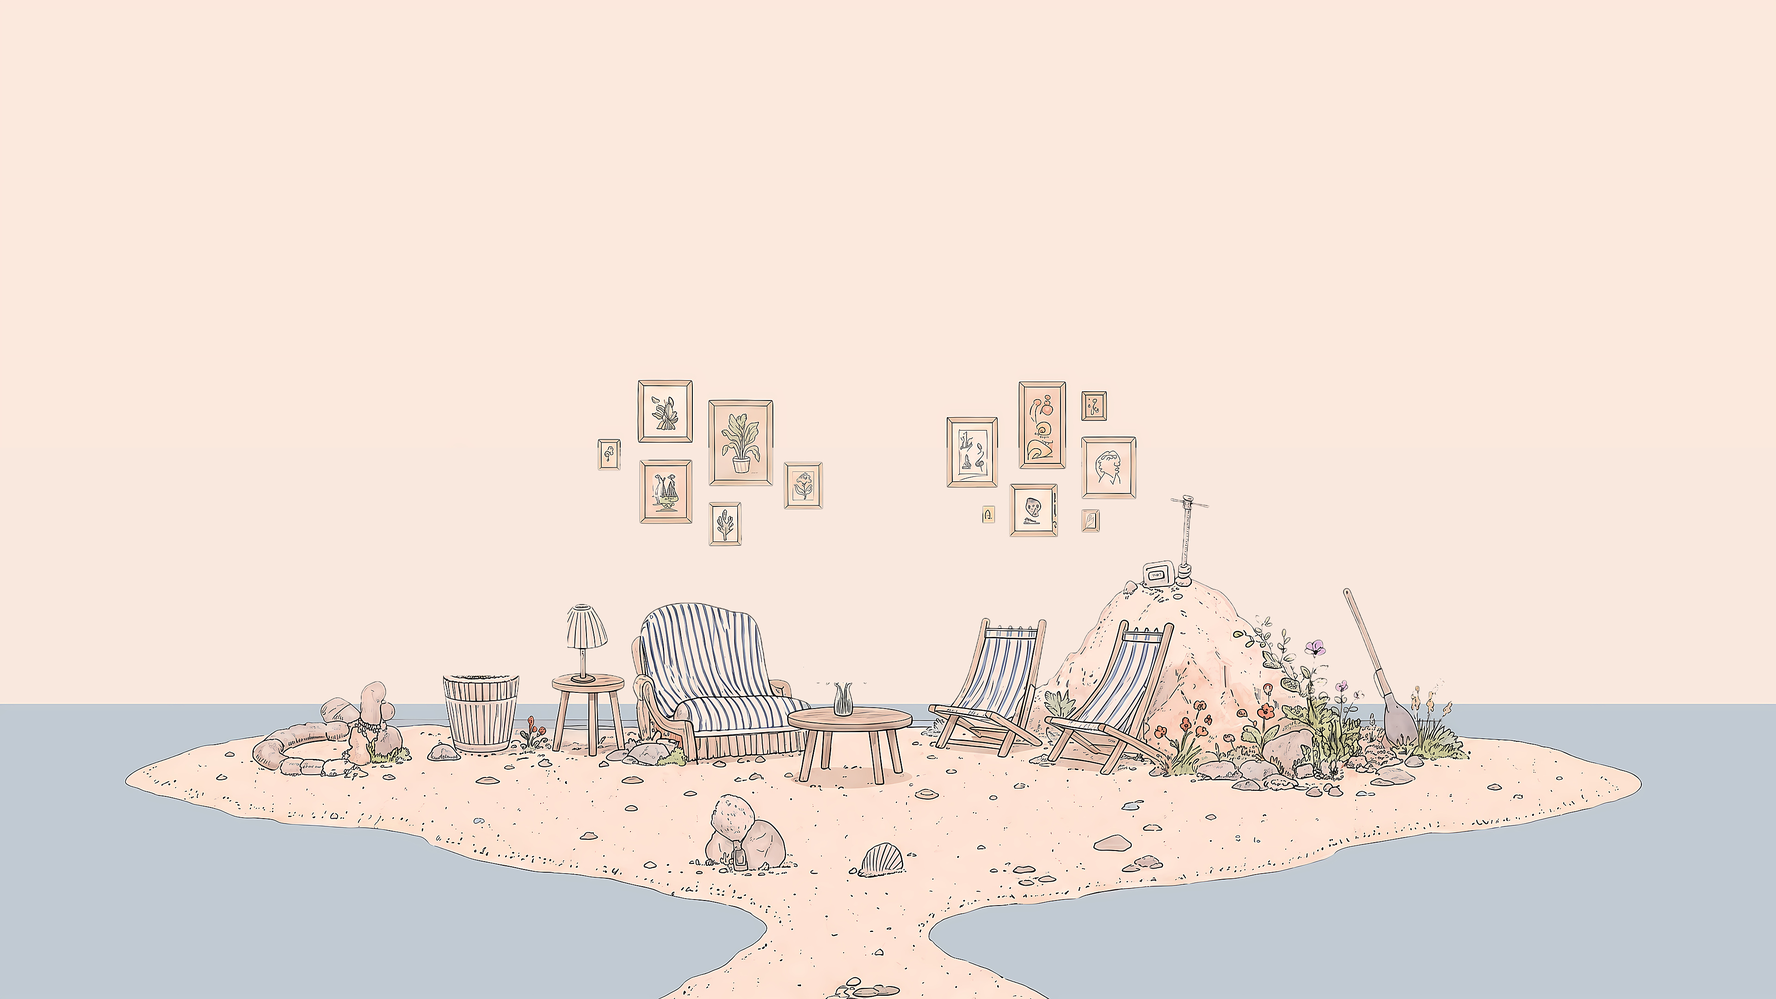
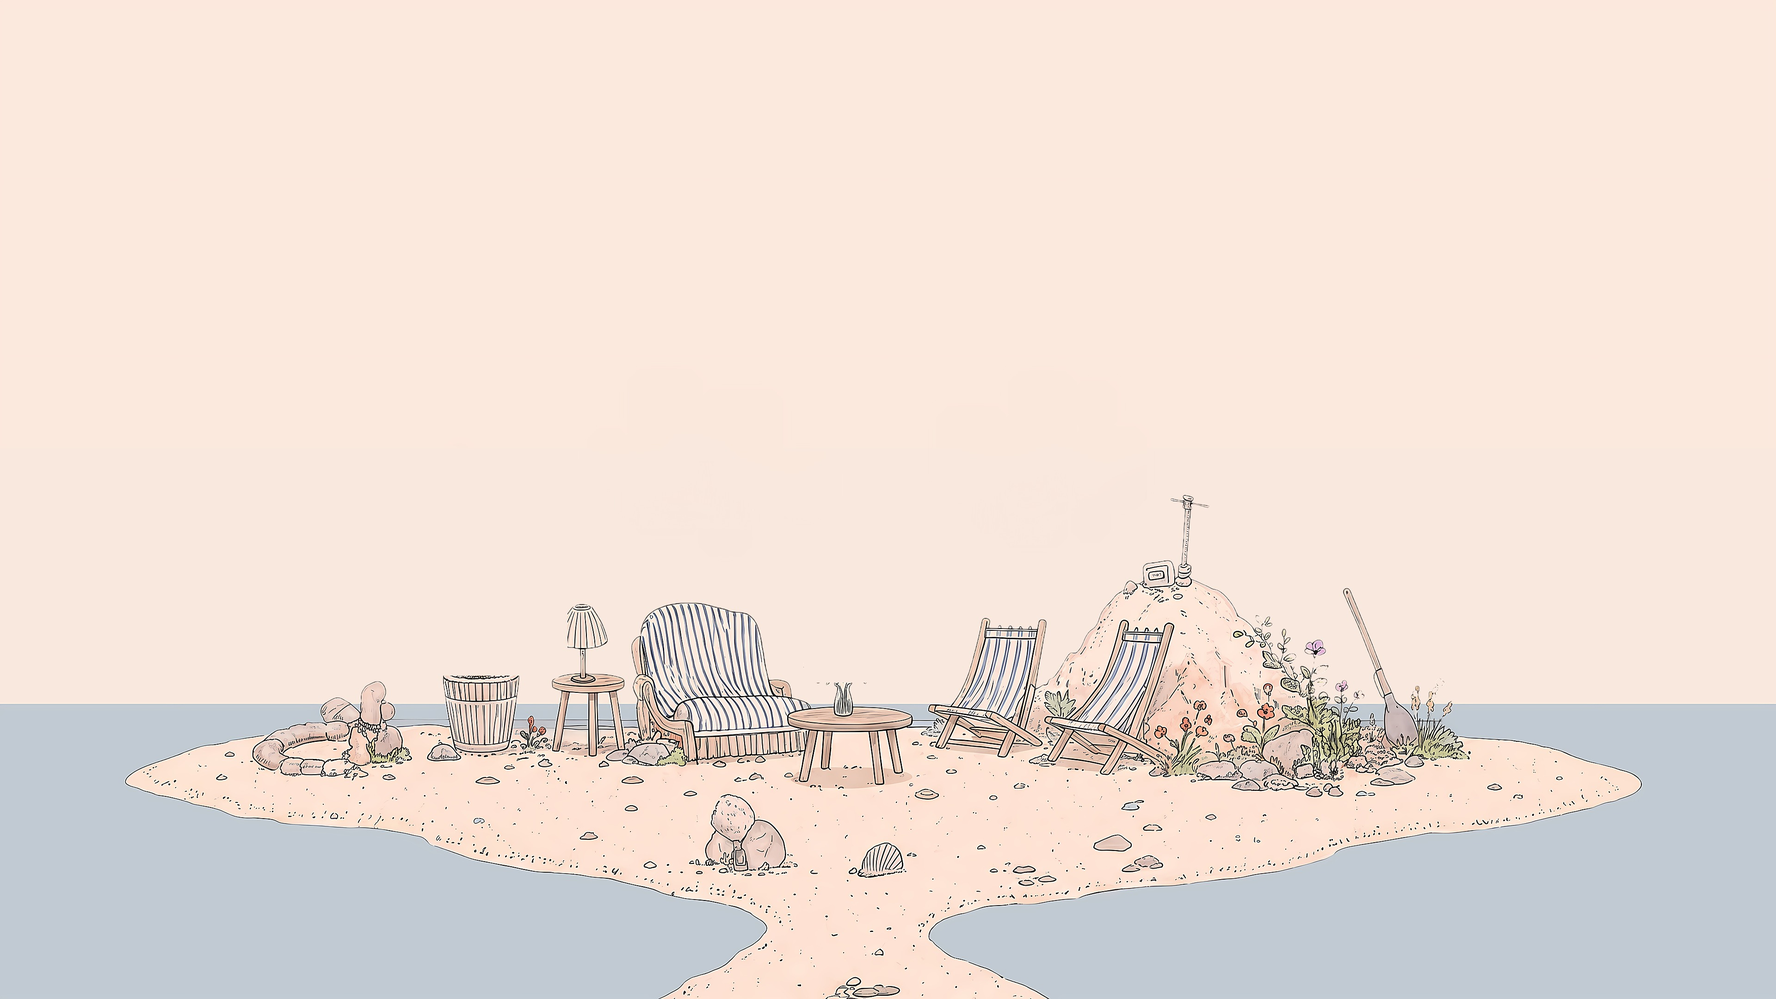
저장소 액자: 배경에서 액자를 모두 지우고 저장한 기록이 생긴 액자만 걸기(처음 저장한 순서대로 자리), 이름표를 반투명 흰 상자로 작게, 문서 반영

Changed region(s): [[0.3125, 0.3722, 0.4688, 0.5583], [0.5312, 0.3722, 0.6562, 0.5583]]

diff --git a/app/storageinside/page.tsx b/app/storageinside/page.tsx
@@ -40,14 +40,16 @@ export default function StorageInsidePage() {
     };
   }, [status]);
 
-  // 액자 자리: 추모 커뮤니티는 고정, 고인은 정해 둔 자리에 차례로 (8명까지)
+  // 저장한 기록이 있는 액자만 걸기. 추모 커뮤니티는 고정 자리, 고인은 처음 저장한 순서대로 다음 빈자리에 (8명까지)
   const placed: Array<{ summary: FrameSummary; spot: FrameSpot }> = [];
   if (frames) {
-    const people = frames.filter((frame) => frame.frame !== COMMUNITY_FRAME);
+    const people = frames
+      .filter((frame) => frame.frame !== COMMUNITY_FRAME && frame.firstSavedAt)
+      .sort((a, b) => (a.firstSavedAt ?? "").localeCompare(b.firstSavedAt ?? ""));
     people.slice(0, CHARACTER_FRAME_SPOTS.length).forEach((summary, index) => {
       placed.push({ summary, spot: CHARACTER_FRAME_SPOTS[index] });
     });
-    const community = frames.find((frame) => frame.frame === COMMUNITY_FRAME);
+    const community = frames.find((frame) => frame.frame === COMMUNITY_FRAME && frame.firstSavedAt);
     if (community) placed.push({ summary: community, spot: COMMUNITY_FRAME_SPOT });
   }
   const totalPhotos = frames?.reduce((sum, frame) => sum + frame.photoCount, 0) ?? 0;
@@ -77,19 +79,23 @@ export default function StorageInsidePage() {
                 onFocus={() => setHovered(summary.frame)}
                 onBlur={() => setHovered(null)}
                 aria-label={`${summary.title} 액자 열기 (사진 ${summary.photoCount}장, 메시지 ${summary.messageCount}개)`}
-                className={`pointer-events-auto absolute cursor-pointer rounded-sm border-0 transition-colors duration-200 ${
-                  active ? "bg-white/30 shadow-[0_0_14px_rgba(255,255,255,0.9)]" : "bg-transparent"
-                }`}
+                className="pointer-events-auto absolute cursor-pointer border-0 bg-transparent p-0"
                 style={{ left: `${spot.left}%`, top: `${spot.top}%`, width: `${spot.width}%`, height: `${spot.height}%` }}
               >
+                {/* eslint-disable-next-line @next/next/no-img-element */}
+                <img
+                  src={spot.src}
+                  alt=""
+                  className={`block h-full w-full transition-[filter,transform] duration-200 ${
+                    active ? "-translate-y-0.5 drop-shadow-[0_0_10px_rgba(255,255,255,0.95)]" : ""
+                  }`}
+                />
                 {active && (
-                  <span className="pointer-events-none absolute bottom-full left-1/2 mb-2 -translate-x-1/2">
-                    <WoodPlank as="span" size="sm">
-                      {summary.title}
-                      <span className="block font-mulish text-[11px] text-[#6B5240]">
-                        사진 {summary.photoCount}장 · 메시지 {summary.messageCount}개
-                      </span>
-                    </WoodPlank>
+                  <span className="pointer-events-none absolute bottom-full left-1/2 mb-1.5 -translate-x-1/2 whitespace-nowrap rounded-md bg-white/70 px-2.5 py-1 text-center shadow-sm backdrop-blur-sm">
+                    <span className="block font-jeju-myeongjo text-[13px] leading-tight text-[#3F2F24]">{summary.title}</span>
+                    <span className="block font-mulish text-[10px] leading-tight text-[#6B5240]">
+                      사진 {summary.photoCount}장 · 메시지 {summary.messageCount}개
+                    </span>
                   </span>
                 )}
               </button>
@@ -108,11 +114,15 @@ export default function StorageInsidePage() {
             ? "로그인하면 저장한 기록을 볼 수 있어요"
             : frames === null
               ? "액자를 걸고 있어요..."
-              : `사진 ${totalPhotos}장 · 메시지 ${totalMessages}개가 조용히 기다리고 있어요`}
+              : placed.length === 0
+                ? "리캡에서 🔖 저장하거나 메시지를 북마크하면 액자가 생겨요"
+                : `사진 ${totalPhotos}장 · 메시지 ${totalMessages}개가 조용히 기다리고 있어요`}
         </p>
-        <p className="font-mulish text-2xl font-normal leading-[17px] text-[#1a1a1a]">
-          액자마다 한 분의 기록이 담겨 있어요. 액자를 눌러보아요
-        </p>
+        {placed.length > 0 && (
+          <p className="font-mulish text-2xl font-normal leading-[17px] text-[#1a1a1a]">
+            액자마다 한 분의 기록이 담겨 있어요. 액자를 눌러보아요
+          </p>
+        )}
         {status === "unauthenticated" && (
           <button
             type="button"

diff --git a/lib/storage-frames.ts b/lib/storage-frames.ts
@@ -3,22 +3,25 @@
 
 export const COMMUNITY_FRAME = "community";
 
-// 저장소 안 그림(storageinside, 16:9) 속 액자 자리 (무대 기준 %)
-export type FrameSpot = { left: number; top: number; width: number; height: number };
+// 저장소 안 그림(storageinside, 16:9) 속 액자 자리 (무대 기준 %) + 오려 둔 액자 그림
+// 배경 그림에서는 액자를 모두 지웠고, 저장한 기록이 있는 액자만 이 그림으로 걸어요.
+export type FrameSpot = { left: number; top: number; width: number; height: number; src: string };
 
-// 추모 커뮤니티 액자: 오른쪽 위 세로로 긴 액자
-export const COMMUNITY_FRAME_SPOT: FrameSpot = { left: 57.34, top: 38.19, width: 2.66, height: 8.47 };
+// 추모 커뮤니티 액자: 오른쪽 무리의 세로로 긴 액자
+export const COMMUNITY_FRAME_SPOT: FrameSpot = {
+  left: 57.266, top: 38.009, width: 2.865, height: 9.167, src: "/scenes/storage-frames/community.webp",
+};
 
-// 고인 액자: 왼쪽 무리부터 차례로 (고인 수가 더 많으면 앞에서부터 8명까지)
+// 고인 액자: 처음 저장한 순서대로 1번 자리부터 (8명까지)
 export const CHARACTER_FRAME_SPOTS: FrameSpot[] = [
-  { left: 39.92, top: 40.14, width: 3.59, height: 8.47 },
-  { left: 35.94, top: 38.06, width: 3.05, height: 6.39 },
-  { left: 35.94, top: 45.97, width: 3.05, height: 6.53 },
-  { left: 44.14, top: 46.39, width: 2.19, height: 4.58 },
-  { left: 39.92, top: 50.28, width: 1.8, height: 4.31 },
-  { left: 53.28, top: 41.67, width: 2.89, height: 7.08 },
-  { left: 60.86, top: 43.75, width: 3.05, height: 6.25 },
-  { left: 56.8, top: 48.33, width: 2.73, height: 5.42 },
+  { left: 39.818, top: 39.861, width: 3.802, height: 8.981, src: "/scenes/storage-frames/1.webp" },
+  { left: 35.807, top: 37.824, width: 3.281, height: 6.667, src: "/scenes/storage-frames/2.webp" },
+  { left: 35.911, top: 45.787, width: 3.177, height: 6.852, src: "/scenes/storage-frames/3.webp" },
+  { left: 53.203, top: 41.528, width: 3.073, height: 7.5, src: "/scenes/storage-frames/6.webp" },
+  { left: 60.755, top: 43.472, width: 3.333, height: 6.667, src: "/scenes/storage-frames/7.webp" },
+  { left: 56.745, top: 48.194, width: 2.917, height: 5.741, src: "/scenes/storage-frames/8.webp" },
+  { left: 44.036, top: 46.065, width: 2.396, height: 5.093, src: "/scenes/storage-frames/4.webp" },
+  { left: 39.818, top: 50.046, width: 2.083, height: 4.815, src: "/scenes/storage-frames/5.webp" },
 ];
 
 export type FrameSummary = {
@@ -26,6 +29,7 @@ export type FrameSummary = {
   title: string; // "엄마" / "추모 커뮤니티"
   photoCount: number;
   messageCount: number;
+  firstSavedAt: string | null; // 처음 저장(북마크)한 때. 이 순서로 액자 자리를 정해요 (없으면 액자 안 걸림)
 };
 
 export type SavedPhoto = {

diff --git a/app/api/storage/frames/route.ts b/app/api/storage/frames/route.ts
@@ -3,7 +3,7 @@ import { getSessionContext } from "@/lib/api-session";
 import { COMMUNITY_FRAME, type FrameSummary } from "@/lib/storage-frames";
 import { frameOfWall, loadBookmarkedMessageIds, loadMyCharacters, loadSavedPhotos } from "@/lib/storage-frames-server";
 
-// 저장소 액자 목록: 내 인물마다 하나 + 추모 커뮤니티 하나 (저장한 사진·북마크한 메시지 수)
+// 저장소 액자 목록: 내 인물마다 하나 + 추모 커뮤니티 하나 (저장한 사진·북마크한 메시지 수, 처음 저장한 때)
 export async function GET() {
   const context = await getSessionContext();
   if (!context.ok) return context.response;
@@ -15,10 +15,12 @@ export async function GET() {
     loadBookmarkedMessageIds(supabase, userEmail),
   ]);
 
-  const count = (frame: string) => ({
-    photoCount: photos.filter((photo) => photo.characterId === frame).length,
-    messageCount: bookmarks.filter((mark) => frameOfWall(mark.wall, characters) === frame).length,
-  });
+  const count = (frame: string) => {
+    const framePhotos = photos.filter((photo) => photo.characterId === frame);
+    const frameMarks = bookmarks.filter((mark) => frameOfWall(mark.wall, characters) === frame);
+    const times = [...framePhotos.map((photo) => photo.savedAt), ...frameMarks.map((mark) => mark.createdAt)].sort();
+    return { photoCount: framePhotos.length, messageCount: frameMarks.length, firstSavedAt: times[0] ?? null };
+  };
 
   const frames: FrameSummary[] = [
     ...characters.map((character) => ({ frame: character.id, title: character.nickname, ...count(character.id) })),

diff --git a/lib/storage-frames-server.ts b/lib/storage-frames-server.ts
@@ -78,14 +78,15 @@ export async function loadBookmarkedMessageIds(supabase: SupabaseClient, userEma
     .eq("kind", "bookmark")
     .order("created_at", { ascending: false });
   const ids = (marks ?? []).map((mark) => mark.message_id as string);
-  if (ids.length === 0) return [] as Array<{ id: string; wall: string }>;
+  const markedAt = new Map((marks ?? []).map((mark) => [mark.message_id as string, mark.created_at as string]));
+  if (ids.length === 0) return [] as Array<{ id: string; wall: string; createdAt: string }>;
   const { data: messages } = await supabase
     .from("community_messages")
     .select("id, wall")
     .in("id", ids)
     .is("deleted_at", null);
   const walls = new Map((messages ?? []).map((message) => [message.id as string, message.wall as string]));
-  return ids.filter((id) => walls.has(id)).map((id) => ({ id, wall: walls.get(id)! }));
+  return ids.filter((id) => walls.has(id)).map((id) => ({ id, wall: walls.get(id)!, createdAt: markedAt.get(id)! }));
 }
 
 // 메시지가 어느 액자에 들어가는지: 기일 추모 섬 메시지는 그 고인의 인물 액자, 나머지는 추모 커뮤니티 액자

diff --git a/docs/TEST_READINESS.md b/docs/TEST_READINESS.md
@@ -1,7 +1,7 @@
 # 사용성 테스트 준비 점검 (TEST_READINESS)
 
 - 점검일: 2026-09-29 (처음 점검 기준 커밋 `06059b6`)
-- 갱신: 2026-09-29 — Task 6 안전장치 구현 반영 (커밋 `9a1b6fa`: 중단하기·기본 블러·노출 강도·감상 마치기), 진행자 초기화 화면 `/facilitator` 추가(본 사진·노출 강도·사진 글·메모·넘김 속도), Task 2 로그인 입구 추가, Task 5 과제 문구를 "설정에서 넘김 속도 바꾸기"로 변경, 리캡 멈춤/재생 버튼 추가(10/5), 설정에서 바꾼 넘김 속도를 열려 있는 리캡에 바로 반영(10/5), 인물 편집에 "열람방식 설정하기" 전체 추가(10/5), 섹션 사진 고르기의 정렬·검색과 Gemini AI 사진 분류·태그 고치기(10/5), "보고 싶지 않은 기록" 걸러내기(10/5), 기일 추모 섬(10/6): 지도에 고정 섬 3개만 두고, 기일 7일 전~3일 후에만 고인의 섬이 팝업으로 물어본 뒤 떠오름, 지도 섬 이름을 늘 보이는 나무 팻말로(10/6), 지도 바다에 일렁이는 물결(10/6), 지도 그림 선명하게·모래길 방향 변경(10/6), 지도에 움직임(갈매기·하늘 새·구름·야자수·꽃, 10/6), 섬 안쪽 화면(마이랜드·추모 커뮤니티·저장소·저장소 안·김영희님의 섬)에도 같은 움직임과 선명한 그림(10/6), 추모 커뮤니티 돌 7곳 확대와 꽃 메시지(10/6), 섬·추모 공간 이름을 모두 나무 팻말로(10/6), Google 로그인 앱을 "프로덕션"으로 게시해 Drive 7일 만료·테스트 사용자 등록이 없어짐, 개인정보처리방침 `/privacy` 추가(10/6), 배포 사이트에 최신 코드 반영·참가자가 자기 계정과 내 드라이브 사진으로 테스트 가능(10/6), 메시지 댓글·실제 알림함(10/7), 리캡 오른쪽 위 막대는 그리기만·공유 없앰·사진마다 🔖 저장(10/7), 저장소 안 액자 = 고인별 액자 + 추모 커뮤니티 액자(저장한 사진·북마크한 메시지 모아 보기, 10/7)
+- 갱신: 2026-09-29 — Task 6 안전장치 구현 반영 (커밋 `9a1b6fa`: 중단하기·기본 블러·노출 강도·감상 마치기), 진행자 초기화 화면 `/facilitator` 추가(본 사진·노출 강도·사진 글·메모·넘김 속도), Task 2 로그인 입구 추가, Task 5 과제 문구를 "설정에서 넘김 속도 바꾸기"로 변경, 리캡 멈춤/재생 버튼 추가(10/5), 설정에서 바꾼 넘김 속도를 열려 있는 리캡에 바로 반영(10/5), 인물 편집에 "열람방식 설정하기" 전체 추가(10/5), 섹션 사진 고르기의 정렬·검색과 Gemini AI 사진 분류·태그 고치기(10/5), "보고 싶지 않은 기록" 걸러내기(10/5), 기일 추모 섬(10/6): 지도에 고정 섬 3개만 두고, 기일 7일 전~3일 후에만 고인의 섬이 팝업으로 물어본 뒤 떠오름, 지도 섬 이름을 늘 보이는 나무 팻말로(10/6), 지도 바다에 일렁이는 물결(10/6), 지도 그림 선명하게·모래길 방향 변경(10/6), 지도에 움직임(갈매기·하늘 새·구름·야자수·꽃, 10/6), 섬 안쪽 화면(마이랜드·추모 커뮤니티·저장소·저장소 안·김영희님의 섬)에도 같은 움직임과 선명한 그림(10/6), 추모 커뮤니티 돌 7곳 확대와 꽃 메시지(10/6), 섬·추모 공간 이름을 모두 나무 팻말로(10/6), Google 로그인 앱을 "프로덕션"으로 게시해 Drive 7일 만료·테스트 사용자 등록이 없어짐, 개인정보처리방침 `/privacy` 추가(10/6), 배포 사이트에 최신 코드 반영·참가자가 자기 계정과 내 드라이브 사진으로 테스트 가능(10/6), 메시지 댓글·실제 알림함(10/7), 리캡 오른쪽 위 막대는 그리기만·공유 없앰·사진마다 🔖 저장(10/7), 저장소 안 액자 = 고인별 액자 + 추모 커뮤니티 액자(저장한 사진·북마크한 메시지 모아 보기, 10/7), 저장소 액자는 저장한 기록이 생긴 것만 걸리고 이름표는 반투명 흰 상자(10/7)
 - 점검 방법: 코드를 직접 읽고, 로컬 DB(Supabase)의 현재 데이터를 조회해서 확인했어요. 코드는 고치지 않았어요.
 - 상태 표시
   - **[동작함]**: 실제 데이터로 저장·불러오기까지 됨
@@ -104,7 +104,7 @@
 | 2 | 전체 지도 `/mainland` | `app/mainland/page.tsx` | [동작함] 고정 섬 3개(추모 커뮤니티·메인 랜드·저장소), 섬마다 이름이 적힌 **나무 팻말**이 늘 보임 (`components/IslandSign.tsx`). 섬 안쪽 화면 제목(추모 커뮤니티·돌 이름·김영희님의 섬·세월호·기일 추모 섬·저장소)도 같은 글씨체(제주명조)의 나무 팻말 (`components/WoodPlank.tsx`). 바다에는 물결이 천천히 일렁임 (`components/SeaWaves.tsx`). 메인 랜드 모래밭을 갈매기가 걸어다니며 바닥을 쪼고(`IslandSeagull.tsx`), 하늘엔 새 두 마리가 날고(`SkyBird.tsx`), 손그림 구름이 흘러가고(`DriftingClouds.tsx`, 기분 하늘마다 구름 색이 다름), 메인 랜드의 야자수·꽃·덤불과 추모 커뮤니티 섬 돌기둥 아래 꽃밭과 덩굴, 저장소 섬 집 아래 덤불·벽 덩굴이 살랑임(`SwayingPlants.tsx`), 저장소 섬 깃발이 펄럭임(`WavingFlag.tsx`). 컴퓨터의 "동작 줄이기" 설정이면 모두 멈춤. 기일 기간이면 고인의 섬이 더 떠오름(아래 2-4) |
 | 2-1 | └ 추모 커뮤니티 섬 → `/community` | `app/community/page.tsx` | [동작함] 돌 7곳 = 커뮤니티 7곳(아가별·부모님·세월호·이태원·강아지별·친구·선생님). 돌에 마우스를 올리면 이름, 돌을 누르면 그 돌로 확대(고른 돌만 컬러·선명, 나머지 회색) + 상단에 이름. 목록에서 누르면 메시지 카드 전체화면(스크롤), "돌에서 보기"로 오갈 수 있음. 돌에 그려진 꽃마다 최근 메시지 카드(글·사진, 펜 그림은 숨김), 메시지 남기기, 전체 보기. 세월호의 예전 메시지도 그대로 보임. 목록의 함께하는 사람 수(64~412명)는 예시 숫자. 배경에 바다 물결·구름·새·돌 사이 꽃이 움직임. SQL: `supabase/step_community_stones.sql` (실행 완료) |
 | 2-2 | └ 메인 랜드 섬 → `/myland` | `app/myland/page.tsx` | [동작함] (Task 3 참고) |
-| 2-3 | └ 저장소 섬 → `/storage` → 저장소 안 `/storageinside` → 액자 `/storage/<액자>` | `app/storageinside/page.tsx`, `app/storage/[frame]/page.tsx`, `lib/storage-frames.ts`, `lib/storage-frames-server.ts`, `app/api/storage/frames/` | [동작함] 저장소 안 벽의 액자 = **고인마다 하나**(만든 순서대로 왼쪽 무리부터, 최대 8명) + 오른쪽 위 세로로 긴 **추모 커뮤니티** 액자. 액자에 마우스를 올리면 팻말에 이름과 사진·메시지 개수. 누르면 그 고인의 리캡에서 🔖 저장한 사진(처음엔 흐림, 크게 보기·리캡에서 보기·저장 취소)과 그 고인 추모 섬에서 북마크한 메시지. 추모 커뮤니티 액자는 돌 7곳 등에서 북마크한 메시지. 첫 화면 `/storage`와 `/storagemanual`은 아직 예시(UI만). 저장소·저장소 안 배경에 바다 물결·구름·새·덤불(저장소 안은 화분·꽃병도)이 움직임, 책 화면은 책 바깥 그림만 선명하게 |
+| 2-3 | └ 저장소 섬 → `/storage` → 저장소 안 `/storageinside` → 액자 `/storage/<액자>` | `app/storageinside/page.tsx`, `app/storage/[frame]/page.tsx`, `lib/storage-frames.ts`, `lib/storage-frames-server.ts`, `app/api/storage/frames/` | [동작함] 배경 그림에서 액자를 모두 지우고, **저장(🔖)·북마크한 기록이 생긴 것만** 액자가 걸림 (`public/scenes/storage-frames/`). **고인마다 하나**(처음 저장한 순서대로 왼쪽 큰 액자 → 오른쪽 → 작은 자리, 최대 8명, 한 번 걸린 자리는 그대로) + 오른쪽 세로로 긴 **추모 커뮤니티** 액자. 아무것도 없으면 "리캡에서 🔖 저장하거나 메시지를 북마크하면 액자가 생겨요" 안내만. 액자에 마우스를 올리면 반투명 흰 상자에 이름과 사진·메시지 개수. 누르면 그 고인의 리캡에서 🔖 저장한 사진(처음엔 흐림, 크게 보기·리캡에서 보기·저장 취소)과 그 고인 추모 섬에서 북마크한 메시지. 추모 커뮤니티 액자는 돌 7곳 등에서 북마크한 메시지. 첫 화면 `/storage`와 `/storagemanual`은 아직 예시(UI만). 저장소·저장소 안 배경에 바다 물결·구름·새·덤불(저장소 안은 화분·꽃병도)이 움직임, 책 화면은 책 바깥 그림만 선명하게 |
 | 2-4 | └ 기일 추모 섬 → `/island/<고인 ID>` | `app/mainland/page.tsx`, `app/island/[deceasedId]/page.tsx`, `lib/islands.ts`, `lib/anniversary.ts` | [동작함] 기일 7일 전~3일 후에 "○○의 추모 섬을 열까요?" 팝업 → "섬 열기"면 지도 왼쪽·오른쪽 아래에 섬이 떠오름(최대 2개). 고인마다 섬 모양·꽃 색이 다름. 섬 안은 가족만 쓰는 추모 메시지 벽(글·그림·사진) |
 | 2-5 | └ (예전) 김영희님의 섬 `/KYHdrawing` | `app/KYHdrawing/page.tsx` | 지도에서 뺐어요. 주소로는 아직 들어갈 수 있음 (배경에 바다 물결·구름·새·바위 아래 꽃이 움직임). 한순애님의 섬도 지도에서 뺌 |
 | 3 | 상단 `소개` → `/about` | `app/about/page.tsx` | [동작함] 긴 이미지 한 장 (브랜드 문구가 **이미지 속 글자**) |
@@ -121,7 +121,7 @@
 - 추모 커뮤니티 돌은 **눌러야** 확대돼요. 이름은 마우스를 올려야 보이니, 참가자가 돌을 누를 수 있다는 걸 알아채는지 관찰해 보세요. 메시지가 없는 돌은 꽃 자리가 비어 있어요 (테스트 전에 몇 곳에 예시 메시지를 남겨 두면 좋아요).
 - 알림함은 실제 알림이라 **처음엔 비어 있어요.** 알림을 보여 주려면 인물의 기일을 오늘 근처로 넣거나, 다른 계정으로 참가자 메시지에 좋아요·댓글을 남겨 두세요.
 - 추모 메시지 카드 아래 **💬 댓글**로 서로 댓글을 달 수 있어요 (닉네임 10자·댓글 200자, 내 댓글만 삭제). 기일 추모 섬 메시지의 댓글은 그 고인의 가족만. SQL: `supabase/step_comments_notifications.sql` (실행 완료)
-- 저장소 액자는 **처음엔 비어 있어요.** 테스트 전에 리캡에서 사진 몇 장을 🔖 저장하고, 추모 공간 메시지 몇 개를 북마크해 두면 보여 주기 좋아요. 액자는 마우스를 올려야 이름이 떠서, 참가자가 액자를 누를 수 있다는 걸 알아채는지 관찰해 보세요. SQL: `supabase/step_saved_photos.sql` (실행 완료)
+- 저장소 안에는 **처음엔 액자가 하나도 없어요.** 저장하거나 북마크해야 액자가 생겨요. 테스트 전에 리캡에서 사진 몇 장을 🔖 저장하고, 추모 공간 메시지 몇 개를 북마크해 두면 보여 주기 좋아요. (기일 추모 섬에서 북마크한 메시지는 그 고인의 액자로 가요) 액자는 마우스를 올려야 이름이 떠서, 참가자가 액자를 누를 수 있다는 걸 알아채는지 관찰해 보세요. SQL: `supabase/step_saved_photos.sql` (실행 완료)
 - 커뮤니티 인원수, 저장소 첫 화면(`/storage`)이 예시 데이터라서, 참가자가 "이미 누가 쓰는 서비스"로 오해할 수 있어요. 관찰할 때 참고하세요.
 
 ### 꼭 만들어야 하는 것
